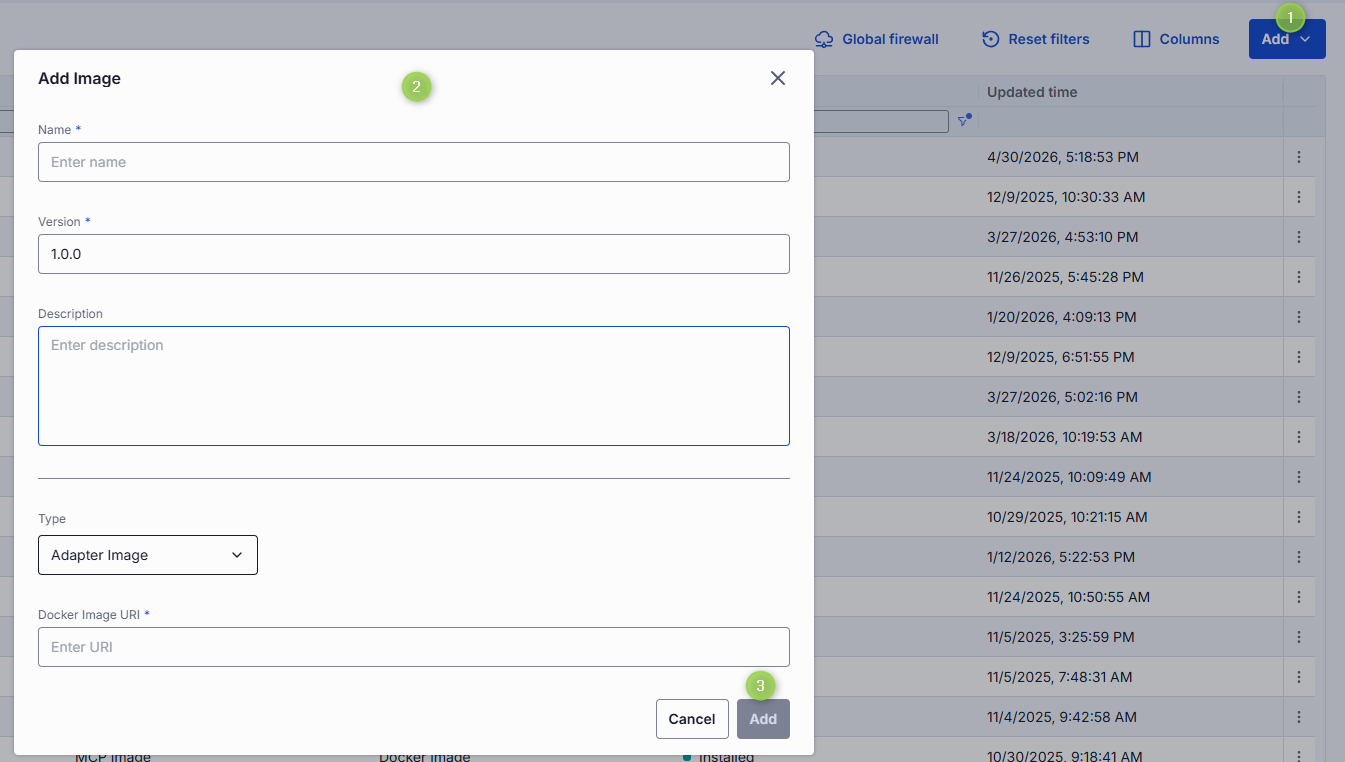
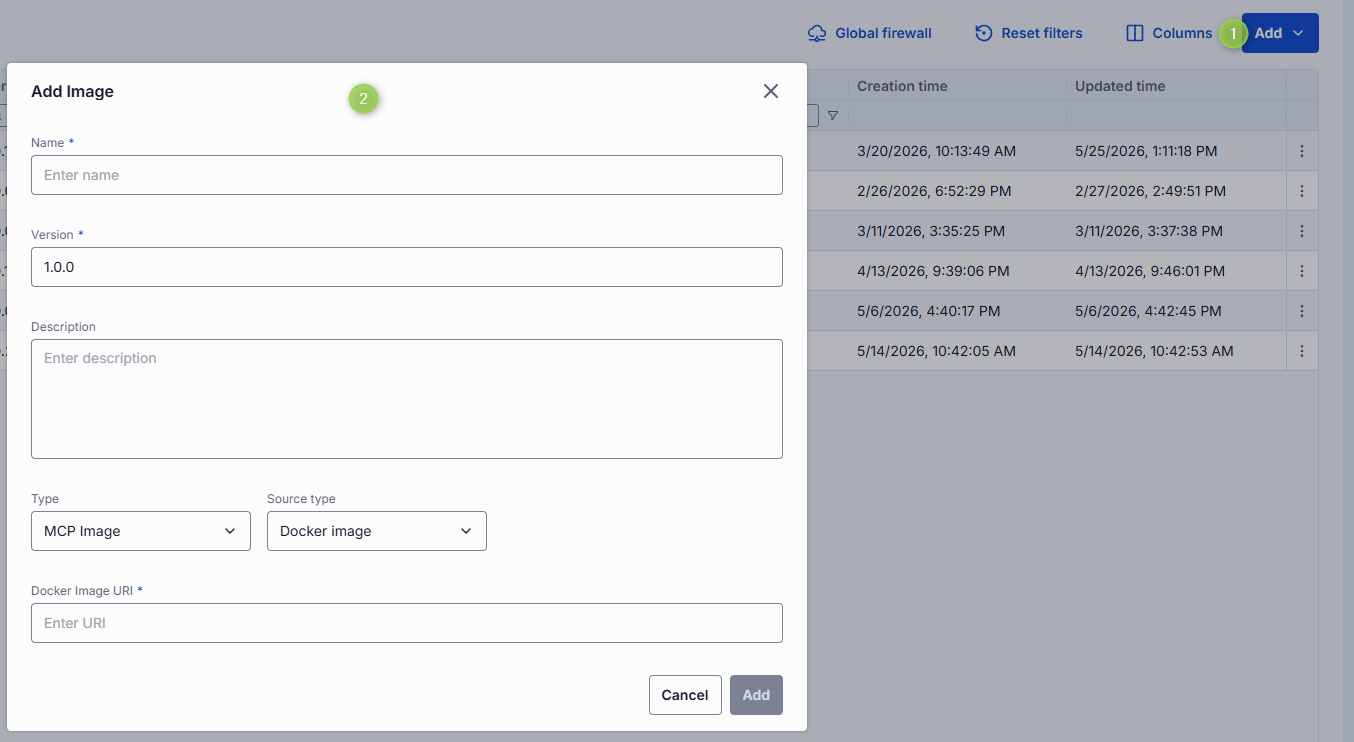
FE issue 3322

diff --git a/docs/tutorials/3.admin/deployments-images.md b/docs/tutorials/3.admin/deployments-images.md
@@ -43,7 +43,7 @@ On the main screen, you can add images for MCP Servers, AI Model Adapters, Appli
 | Version | Yes | Version of the image. |
 | Description | No | Brief description of the image. |
 | Type | Yes | Type of the image (MCP, Adapter, Application or Interceptor). |
-| Source type | Conditional | **Note**: Available if **Type=MCP Image**. <br />Available values:<br />- **Docker Image**: To use external Docker image as a source.<br />- **Source Code**: To use source code repository as a source. |
+| Source type | Yes | Available for all image types (MCP, Adapter, Application, Interceptor). <br />Available values:<br />- **Docker Image**: To use external Docker image as a source.<br />- **Source Code**: To use source code repository as a source. |
 | Docker Image URI | Conditional | URI of the Docker image used as a source. <br /> Available if **Source type=Docker Image**. |
 | Repo URL | Conditional | URL of the source code repository. <br /> Available if **Source type=Source Code**. |
 | Branch name | Conditional | The name of the branch in the source code repository. <br /> Available if **Source type=Source Code**. |
@@ -109,16 +109,15 @@ In the Properties tab, you can preview and modify selected image's basic propert
 | Type | - | No | Type of the image (MCP, Adapter, Application or Interceptor). |
 | Creation Time | - | No | Creation timestamp. |
 | Updated Time | - | No | Timestamp of the last update. |
-| Source type | - | No | Source type of the selected image:<br />- **Docker Image**<br />- **Source Code** |
 | Status | - | No | Current status of the image. |
 | Name | Yes | Yes | Name of the image. <br /> Must be between 2 and 255 characters long. <br /> Can contain only letters, numbers, spaces, underscores, and hyphens. <br /> Special characters are not allowed. |
 | Description | No | Yes | Brief description of the image. |
 | Maintainer | No | Yes | Email address of the maintainer of the image. |
 | Topics | No | Yes | List of topics associated with the image. Click to display a list of available topics. <br />You can add your own custom topics to the list following these rules:<br /> - The topic name must not exceed 255 characters. <br /> - The topic name must not contain leading or trailing spaces.|
 | Build privileges | Yes | Yes | Use this setting to define permissions level when building image. |
-| Source type | Conditional | No | The source type of the selected image required for MCP type of image.<br />Available values: <br />- **Docker Image**<br />- **Source Code** |
+| Source type | Conditional | No | Source type of the selected image.<br />Available values: <br />- **Docker Image**<br />- **Source Code** |
 | Docker image URI | Conditional | Yes |  Valid Docker image URI (validated on backend). If provided, must not start or end with `/`.<br/>Applies to MCP (if Source type = Docker image), Adapter, Application and Interceptor image types. <br />Read-only and auto-populated from the OCI package for images created from MCP Registry. |
-| Source code repository parameters | Conditional | Yes | Parameters of the source code repository used to create the selected image. <br />Applies if Type = MCP Image and Source type = Source code. Also, when the image is created from MCP Registry.<br/>- **Repo URL** (required): Source code repository URL. If provided, must not start or end with `/`. Read-only and auto-populated for images created from MCP Registry.<br />- **Branch name**: Name of the branch in the source code repository.<br />- **SHA**: SHA in the source code repository that uniquely identifies each commit in the repository’s history. This SHA is a 40-character hexadecimal string generated by Git whenever you make a commit.<br />- **Base directory**: Directory path with the Docker file. If provided, must not start or end with `/`. |
+| Source code repository parameters | Conditional | Yes | Parameters of the source code repository used to create the selected image. <br />Applies when Source type = Source code for MCP, Adapter, Application, and Interceptor images. For images created from MCP Registry, some values can be read-only and auto-populated.<br/>- **Repo URL** (required): Source code repository URL. If provided, must not start or end with `/`. Read-only and auto-populated for images created from MCP Registry.<br />- **Branch name**: Name of the branch in the source code repository.<br />- **SHA**: SHA in the source code repository that uniquely identifies each commit in the repository’s history. This SHA is a 40-character hexadecimal string generated by Git whenever you make a commit.<br />- **Base directory**: Directory path with the Docker file. If provided, must not start or end with `/`. |
 | MCP server name | Conditional | Yes | Name of MCP server from the [MCP Registry](https://registry.modelcontextprotocol.io/). Start typing in the text box to search for available MCP servers or click **Select from registry** to display a window with a list of available MCP servers and their details. <br/>Applies only to MCP type of image. |
 | MCP transport type | Conditional | Yes | Applies only to MCP type of image.<br/>The transport type used by the MCP image: <br />- **Remote**: HTTP (default), SSE (deprecated)<br />- **Local** (STDIO) |
 